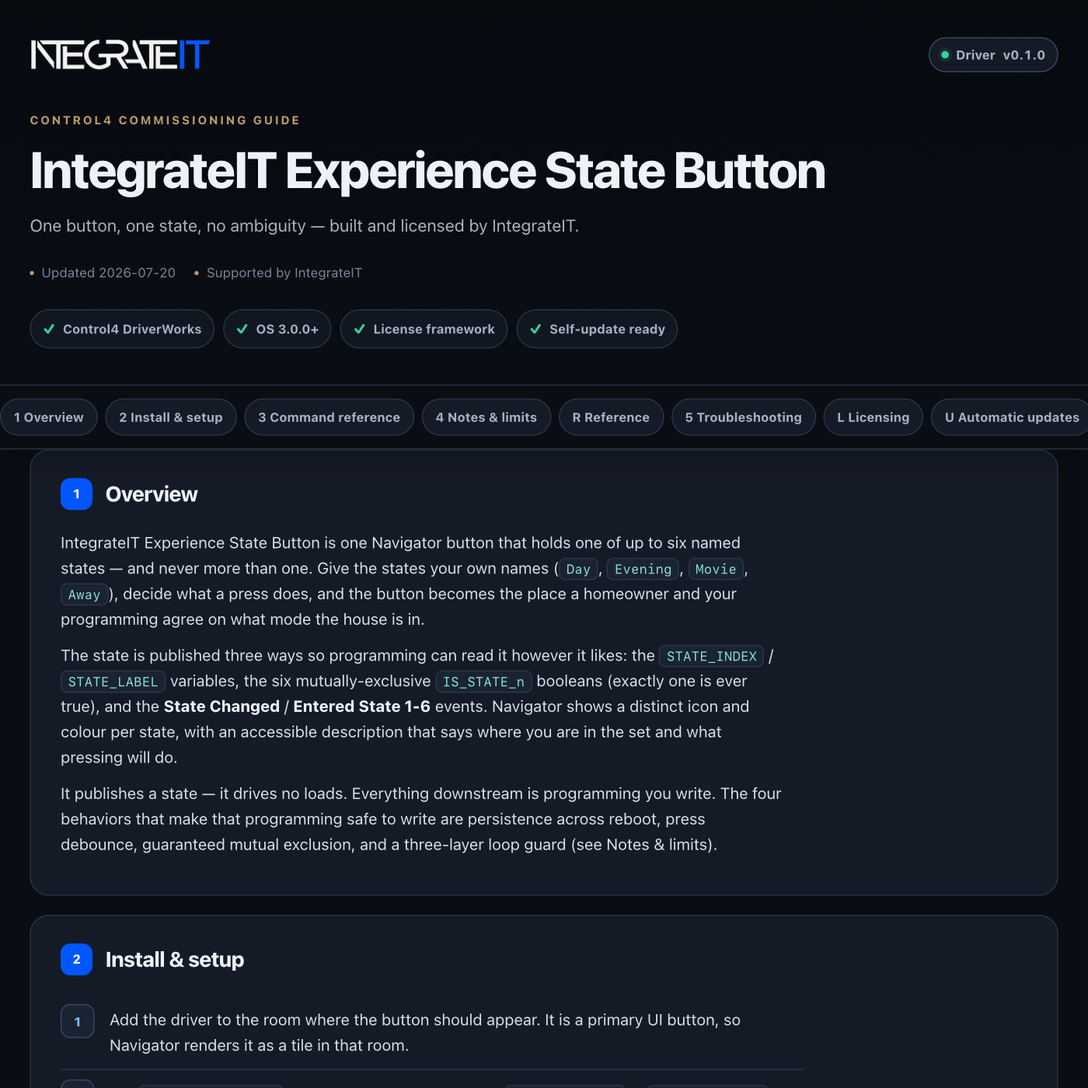
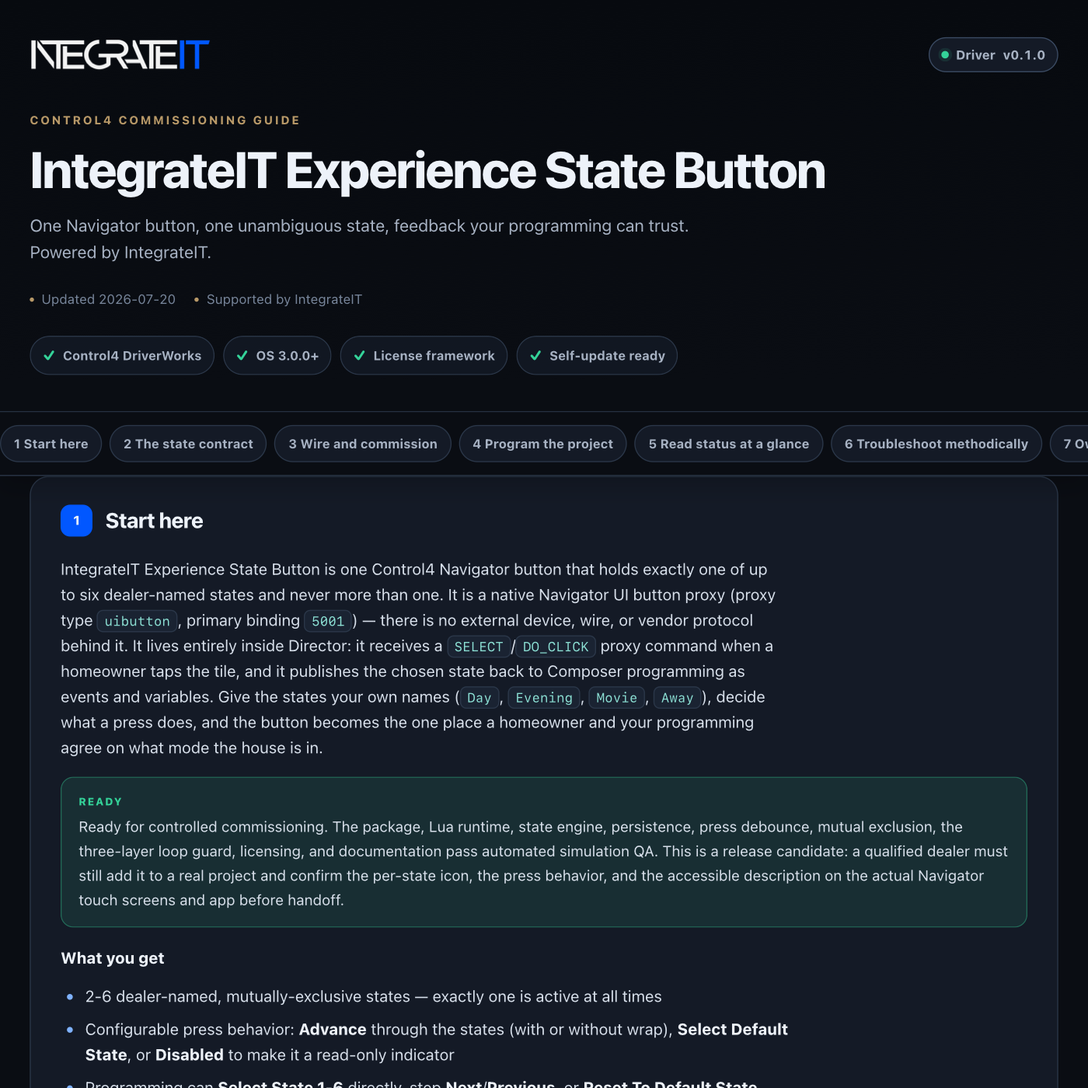
control4: publish driver channel (integrateit_experience_buttons 0.1.1)

Changed region(s): [[0.0, 0.3686, 1.0, 1.0], [0.0307, 0.1843, 0.6143, 0.3379]]

diff --git a/control4/integrateit_experience_buttons/documentation.html b/control4/integrateit_experience_buttons/documentation.html
@@ -179,13 +179,13 @@ td code{white-space:normal}
     <div class="wrap">
       <div class="brandbar">
[1 lines of base64/hex data omitted]
-        <span class="version"><span class="word">Driver</span> v0.1.0</span>
+        <span class="version"><span class="word">Driver</span> v0.1.1</span>
       </div>
       <p class="eyebrow">Control4 commissioning guide</p>
       <h1>IntegrateIT Experience State Button</h1>
-      <p class="sub">One button, one state, no ambiguity — built and licensed by IntegrateIT.</p>
+      <p class="sub">One Navigator button, one unambiguous state, feedback your programming can trust. Powered by IntegrateIT.</p>
       <div class="meta">
-        <span>Updated 2026-07-20</span>
+        <span>Updated 2026-07-26</span>
         <span>Supported by IntegrateIT</span>
       </div>
       <div class="readiness" aria-label="Driver capabilities">
@@ -198,57 +198,118 @@ td code{white-space:normal}
   </header>
 
   <div class="toc-wrap">
-    <nav class="toc wrap" aria-label="Documentation sections"><a href="#overview">1 Overview</a><a href="#install">2 Install &amp; setup</a><a href="#commands">3 Command reference</a><a href="#notes">4 Notes &amp; limits</a><a href="#reference">R Reference</a><a href="#troubleshooting">5 Troubleshooting</a><a href="#licensing">L Licensing</a><a href="#updates">U Automatic updates</a><a href="#changelog">V Version history</a></nav>
+    <nav class="toc wrap" aria-label="Documentation sections"><a href="#overview">1 Start here</a><a href="#state-contract">2 The state contract</a><a href="#setup">3 Wire and commission</a><a href="#programming">4 Program the project</a><a href="#status">5 Read status at a glance</a><a href="#troubleshooting">6 Troubleshoot methodically</a><a href="#trust">7 Ownership, privacy, and licensing</a><a href="#reference">R Reference</a><a href="#licensing">L Licensing</a><a href="#updates">U Automatic updates</a><a href="#changelog">V Version history</a></nav>
   </div>
 
   <main class="wrap">
     <section class="card" id="overview" data-card="overview">
-  <h2><span class="n">1</span> Overview</h2>
-  <p>IntegrateIT Experience State Button is one Navigator button that holds one of up to six named states — and never more than one. Give the states your own names (<code>Day</code>, <code>Evening</code>, <code>Movie</code>, <code>Away</code>), decide what a press does, and the button becomes the place a homeowner and your programming agree on what mode the house is in.</p>
-  <p>The state is published three ways so programming can read it however it likes: the <code>STATE_INDEX</code> / <code>STATE_LABEL</code> variables, the six mutually-exclusive <code>IS_STATE_n</code> booleans (exactly one is ever true), and the <b>State Changed</b> / <b>Entered State 1-6</b> events. Navigator shows a distinct icon and colour per state, with an accessible description that says where you are in the set and what pressing will do.</p>
-  <p>It publishes a state — it drives no loads. Everything downstream is programming you write. The four behaviors that make that programming safe to write are persistence across reboot, press debounce, guaranteed mutual exclusion, and a three-layer loop guard (see Notes &amp; limits).</p>
+  <h2><span class="n">1</span> Start here</h2>
+  <p>IntegrateIT Experience State Button is one Control4 Navigator button that holds exactly one of up to six dealer-named states and never more than one. It is a native Navigator UI button proxy (proxy type <code>uibutton</code>, primary binding <code>5001</code>) — there is no external device, wire, or vendor protocol behind it. It lives entirely inside Director: it receives a <code>SELECT</code>/<code>DO_CLICK</code> proxy command when a homeowner taps the tile, and it publishes the chosen state back to Composer programming as events and variables. Give the states your own names (<code>Day</code>, <code>Evening</code>, <code>Movie</code>, <code>Away</code>), decide what a press does, and the button becomes the one place a homeowner and your programming agree on what mode the house is in.</p>
+  <div class="note good">Ready for controlled commissioning. The package, Lua runtime, state engine, persistence, press debounce, mutual exclusion, the three-layer loop guard, licensing, and documentation pass automated simulation QA. This is a release candidate: a qualified dealer must still add it to a real project and confirm the per-state icon, the press behavior, and the accessible description on the actual Navigator touch screens and app before handoff.</div>
+  <p><b>What you get</b></p>
+  <ul>
+    <li>2-6 dealer-named, mutually-exclusive states — exactly one is active at all times</li>
+    <li>Configurable press behavior: <b>Advance</b> through the states (with or without wrap), <b>Select Default State</b>, or <b>Disabled</b> to make it a read-only indicator</li>
+    <li>Programming can <b>Select State 1-6</b> directly, step <b>Next</b>/<b>Previous</b>, or <b>Reset To Default State</b></li>
+    <li>The state survives a controller reboot, silently; optional always-start-at-default</li>
+    <li>Press debounce collapses the duplicate <code>SELECT</code>/<code>DO_CLICK</code> deliveries one Navigator press can produce</li>
+    <li>A three-layer loop guard that keeps programming reacting to its own state changes from running away</li>
+    <li>Per-state Navigator icon and accessible description; <b>State Changed</b> / <b>Entered State 1-6</b> events; <code>STATE_INDEX</code> / <code>IS_STATE_1-6</code> variables</li>
+    <li>MAC-locked IntegrateIT licensing, Lenient or Strict</li>
+  </ul>
 </section>
 
-<section class="card" id="install" data-card="install">
-  <h2><span class="n">2</span> Install &amp; setup</h2>
+<section class="card" id="state-contract" data-card="state-contract">
+  <h2><span class="n">2</span> The state contract</h2>
+  <p>Unlike a driver that reads a device and can be wrong about it, this button *is* the source of truth. Its state is exactly what was last selected — it never assumes, infers, or fakes a value it does not have. What it will not do is pretend to be more than a state holder:</p>
+  <ul>
+    <li><b>It drives no loads.</b> Publishing a state is the whole job. Every light, scene, shade, or mode that changes because of it is programming you write. The button is the switch; the behavior downstream is yours.</li>
+    <li><b>Mutual exclusion is within this one button.</b> All six <code>IS_STATE_n</code> flags are rewritten as one block on every change, so exactly one is ever true and it always agrees with <code>STATE_INDEX</code> — there is no window in which two states read as active. Lowering <code>Number of States</code> below the held state is a structural correction, not programming traffic, so it always clamps the state back into range — even past a tripped loop guard — and no flag above the configured count is ever left reading true. Making several *buttons* exclusive of each other (radio-group behavior) is programming, not a driver feature, and it is exactly the pattern the loop guard exists to keep safe.</li>
+    <li><b>The loop guard is a rate limiter, not a proof.</b> It stops a runaway after <code>Loop Guard Changes</code> accepted changes inside <code>Loop Guard Window (s)</code>, then stays tripped for a full window measured from the trip before it re-arms; a feedback loop slower than that ceiling still has to be fixed in programming. If <b>Loop Guard Tripped</b> ever fires in the field, treat it as a bug report about your programming, not a setting to raise.</li>
+    <li><b>Restore depends on Director persistence.</b> The last state is written on every accepted change and restored silently at boot — a reboot fires no event, so scene programming does not run every time Director restarts. A driver that is removed and re-added, or a factory-reset controller, starts at the <b>Default State</b>.</li>
+  </ul>
+</section>
+
+<section class="card" id="setup" data-card="setup">
+  <h2><span class="n">3</span> Wire and commission</h2>
   <ol class="steps">
-    <li>Add the driver to the room where the button should appear. It is a primary UI button, so Navigator renders it as a tile in that room.</li>
+    <li>Add <b>IntegrateIT Experience State Button</b> to the room where it should appear. It is a primary UI button, so Navigator renders it as a tile in that room. There are no connections to bind — the button drives nothing.</li>
     <li>Set <code>Number of States</code> (2-6), then name each one in <code>State 1 Label</code> … <code>State 6 Label</code>. A blank label shows as *State N*.</li>
-    <li>Set <code>Default State</code> — the state used on a first-ever start, by <b>Reset To Default State</b>, and on every boot when <code>Restore On Reboot</code> is No.</li>
-    <li>Choose <code>Press Action</code>: - <b>Advance</b> (default) — a press moves to the next state, wrapping per <code>Wrap At Last State</code>. - <b>Select Default State</b> — a press jumps home from wherever it is. Good for an "everything back to normal" tile. - <b>Disabled</b> — presses are refused; the button becomes a read-only indicator driven only by programming.</li>
-    <li>Leave <code>Press Debounce (ms)</code> at 400 unless you have a reason. One Navigator press can be delivered twice; this is what collapses it into one state change.</li>
-    <li>In Programming, react to <b>Entered State 2</b> (etc.) to run your scenes, or compare <code>STATE_INDEX</code> / <code>IS_STATE_2</code> in a condition.</li>
+    <li>Set <code>Default State</code> — the state used on a first-ever start, by <b>Reset To Default State</b>, and on every boot when <code>Restore On Reboot</code> is No. It is clamped into the configured range, so trimming the state list never strands it out of bounds.</li>
+    <li>Choose <code>Press Action</code>: - <b>Advance</b> (default) — a press moves to the next state, wrapping per <code>Wrap At Last State</code>. - <b>Select Default State</b> — a press jumps home from wherever it is; good for an "everything back to normal" tile. - <b>Disabled</b> — presses are refused and the button becomes a read-only indicator driven only by programming.</li>
+    <li>Leave <code>Wrap At Last State</code>, <code>Restore On Reboot</code>, and <code>Press Debounce (ms)</code> at their defaults unless you have a reason. The 400 ms debounce is what collapses one Navigator press into one state change; set it to 0 only when the binding genuinely sends one press per press.</li>
+    <li>If programming will react to this button's own events, tune <code>Loop Guard Changes</code> and <code>Loop Guard Window (s)</code> (defaults 12 changes / 10 s). Setting <code>Loop Guard Changes</code> to 0 disables the guard entirely.</li>
     <li>Optionally enter a <code>License Key</code> (see Licensing) — the driver runs in Lenient mode without one.</li>
+    <li>Prove it: open the room on a Navigator, tap the button, and watch the icon and accessible description advance one state per tap. In Programming, confirm <b>Entered State N</b> fires and <code>STATE_INDEX</code> / <code>IS_STATE_N</code> update.</li>
   </ol>
 </section>
 
-<section class="card" id="commands" data-card="commands">
-  <h2><span class="n">3</span> Command reference</h2>
+<section class="card" id="programming" data-card="programming">
+  <h2><span class="n">4</span> Program the project</h2>
   <table>
     <tr><th>Action</th><th>What it does</th></tr>
-    <tr><td>Select State 1 … Select State 6</td><td>Move directly to that state. Refused (with a Status note) if it is above <code>Number of States</code>.</td></tr>
+    <tr><td>Select State 1 … Select State 6</td><td>Move directly to that state. Refused, with a <code>Status</code> note, if it is above <code>Number of States</code>.</td></tr>
     <tr><td>Next State / Previous State</td><td>Step one state, honouring <code>Wrap At Last State</code>.</td></tr>
     <tr><td>Reset To Default State</td><td>Return to <code>Default State</code>, and release the loop guard if it is tripped.</td></tr>
-    <tr><td>Refresh Navigator State</td><td>Re-send the current icon, description and variables. No state change, no events — safe anywhere.</td></tr>
-    <tr><td>Print Configuration</td><td>Print the state list, press behavior, loop-guard settings, and the accessible text to the Lua output window.</td></tr>
+    <tr><td>Refresh Navigator State</td><td>Re-send the current icon, description, and variables. No state change, no events — safe to call anywhere.</td></tr>
+    <tr><td>Print Configuration</td><td>Print the state list, press behavior, loop-guard settings, and accessible text to the Lua output window.</td></tr>
   </table>
-  <p><b>Events:</b> *State Changed*, *Entered State 1* … *Entered State 6*, *Loop Guard Tripped*. <b>Variables:</b> <code>STATE_INDEX</code>, <code>STATE_COUNT</code>, <code>STATE_LABEL</code>, <code>STATE_TEXT</code>, <code>LAST_CHANGE_SOURCE</code>, <code>IS_STATE_1</code> … <code>IS_STATE_6</code>.</p>
+  <p><b>Events:</b> *State Changed* (fired for a move from any source), *Entered State 1* … *Entered State 6*, *Loop Guard Tripped*.</p>
+  <table>
+    <tr><th>Variable</th><th>Type</th><th>Meaning</th></tr>
+    <tr><td><code>STATE_INDEX</code></td><td>NUMBER</td><td>The current state, 1…N (0 only before the driver has initialized).</td></tr>
+    <tr><td><code>STATE_COUNT</code></td><td>NUMBER</td><td>The configured <code>Number of States</code>.</td></tr>
+    <tr><td><code>STATE_LABEL</code></td><td>STRING</td><td>The current state's label.</td></tr>
+    <tr><td><code>STATE_TEXT</code></td><td>STRING</td><td>The accessible description: position, label, and what a press will do.</td></tr>
+    <tr><td><code>LAST_CHANGE_SOURCE</code></td><td>STRING</td><td>What last moved the state: Navigator, Programming, Restore, Reconfigure, or Default.</td></tr>
+    <tr><td><code>IS_STATE_1</code> … <code>IS_STATE_6</code></td><td>BOOL</td><td>Exactly one is true, and it always matches <code>STATE_INDEX</code>.</td></tr>
+  </table>
+  <p>Three concrete recipes:</p>
+  <ul>
+    <li><b>Run a scene for a mode.</b> *When Entered State 2 (Movie) →* dim the lights, close the shades, power the projector. React to <b>Entered State N</b> to run the scene that belongs to that state.</li>
+    <li><b>Pull the button back in sync.</b> *When a scene ends →* <b>Select State 1 (Day)</b>. Because re-selecting the state the button already holds is a silent refresh, this never loops back on itself.</li>
+    <li><b>Radio group across buttons.</b> *When this button fires Entered State 3 →* <b>Select State 1</b> on the sibling buttons. The silent-refresh layer and the loop guard let the siblings settle in one pass instead of ping-ponging.</li>
+  </ul>
+  <p>Control is gated by the license: under Strict enforcement an unlicensed controller moves nothing — presses and programming alike are refused — while Lenient mode allows commissioning with the <code>License Status</code> nag.</p>
 </section>
 
-<section class="card" id="notes" data-card="notes">
-  <h2><span class="n">4</span> Notes &amp; limits</h2>
-  <ul>
-    <li><b>Mutual exclusion.</b> All six <code>IS_STATE_n</code> flags are rewritten together on every change, so exactly one is true and it always agrees with <code>STATE_INDEX</code>. There is no window in which two states read as active.</li>
-    <li><b>Persistence.</b> The state is written on every accepted change and restored at boot — silently. A controller restart fires no events, so scene programming does not run every time Director restarts. Turn <code>Restore On Reboot</code> to No for buttons that should always come up at the default. If <code>Number of States</code> was lowered while the driver was down, the stored state clamps into range and <code>Last Change</code> reads *Reconfigure*.</li>
-    <li><b>Debounce.</b> A press is accepted, then the button is deaf for <code>Press Debounce (ms)</code>. This is what makes one tap one state change even when Navigator delivers both SELECT and DO_CLICK for it. Set it to 0 only if you are driving the binding from something that genuinely sends one press per press.</li>
-    <li><b>Loop protection, three layers.</b> (1) Selecting the state it already holds is a silent refresh, never an event — this alone breaks the common "on State Changed → set the state" cycle. (2) A change requested from inside this driver's own event dispatch is refused. (3) More than <code>Loop Guard Changes</code> accepted changes inside <code>Loop Guard Window (s)</code> trips the guard, which fires <b>Loop Guard Tripped</b> once and refuses further changes until the window elapses. The tripped window is measured from the trip, not from the first change that opened the counting window. <b>Reset To Default State</b> or retuning either guard property releases it immediately, and lowering <code>Number of States</code> still clamps the current state into range even while the guard is tripped — the guard never leaves the button holding a state that no longer exists.</li>
-    <li><b>The guard is a rate limiter, not a proof.</b> A feedback loop slower than the configured ceiling will not trip it. If <b>Loop Guard Tripped</b> ever fires in the field, treat it as a bug report about your programming, not as a setting to raise.</li>
-    <li><b>Wrap off is a wall.</b> With <code>Wrap At Last State</code> set to No, pressing at the last state does nothing at all — no event, no re-selection. Status says so.</li>
-    <li>Making several buttons exclusive of one another (radio-group behavior across drivers) is programming: react to <b>Entered State</b> on one and select a state on the siblings. That is precisely the pattern the loop guard exists to keep safe, and layer 1 means the siblings settle in one pass.</li>
-  </ul>
+<section class="card" id="status" data-card="status">
+  <h2><span class="n">5</span> Read status at a glance</h2>
+  <p>For automation, read <code>STATE_INDEX</code> or the <code>IS_STATE_n</code> booleans — they are the machine-safe truth. The text properties below are for humans and for screen readers.</p>
+  <table>
+    <tr><th>Property</th><th>Healthy result</th><th>What it tells you</th></tr>
+    <tr><td><code>Current State</code></td><td><code>2 of 3 - Movie</code> (position, count, label)</td><td>The state the button holds right now. Reads <code>Unknown</code> only before init.</td></tr>
+    <tr><td><code>Accessible Description</code></td><td>Position, label, and what a press does</td><td>The screen-reader text Navigator receives with the icon; identical to <code>STATE_TEXT</code>.</td></tr>
+    <tr><td><code>Last Change</code></td><td>e.g. <code>Navigator at 2026-07-20 18:04:11</code></td><td>What last moved the state and when — Navigator, Programming, Restore, Reconfigure, or Default.</td></tr>
+    <tr><td><code>License Status</code></td><td>Activated, or Lenient during commissioning</td><td>Enter a key before selecting Strict enforcement.</td></tr>
+  </table>
+  <p><b>Print Configuration</b> writes the state list, press behavior, debounce, restore setting, loop-guard settings, and the accessible text to the Lua output window, alongside the IntegrateIT identity. It never prints the license key.</p>
+</section>
+
+<section class="card" id="troubleshooting" data-card="troubleshooting">
+  <h2><span class="n">6</span> Troubleshoot methodically</h2>
+  <table>
+    <tr><th>Symptom</th><th>Likely cause</th><th>Fix</th></tr>
+    <tr><td>A tap does nothing at all</td><td><code>Press Action</code> is Disabled, or Strict enforcement without a valid key</td><td>Set <code>Press Action</code> to Advance or Select Default State; check <code>License Status</code>.</td></tr>
+    <tr><td>A single tap skips a state</td><td><code>Press Debounce (ms)</code> is 0 and Navigator delivers the press twice</td><td>Restore the debounce to 400 ms.</td></tr>
+    <tr><td>Pressing at the last state does nothing</td><td><code>Wrap At Last State</code> is No — this is the wall, by design</td><td>Set it to Yes to cycle; <code>Status</code> says so.</td></tr>
+    <tr><td>State keeps changing on its own</td><td>Programming reacts to this button's own event and sets it back</td><td>Check <code>Status</code> for a loop-guard note, then fix the cycle in Programming.</td></tr>
+    <tr><td>Nothing changes after <code>Loop Guard Tripped</code></td><td>The guard is refusing changes for a full <code>Loop Guard Window (s)</code> measured from the trip</td><td>Run <b>Reset To Default State</b> (or retune the guard) to release it now, then fix the programming that stormed it.</td></tr>
+    <tr><td>Comes back at the wrong state after a reboot</td><td><code>Restore On Reboot</code> is No, or <code>Number of States</code> was lowered while offline</td><td>Read <code>Last Change</code> — *Default* and *Reconfigure* each name their cause.</td></tr>
+    <tr><td>A state cannot be selected</td><td>The state is above <code>Number of States</code></td><td>Raise <code>Number of States</code>; <code>Status</code> names the refused state.</td></tr>
+    <tr><td>The icon or description looks stale on a Navigator</td><td>The Navigator restarted and lost the pushed icon</td><td>Run <b>Refresh Navigator State</b>.</td></tr>
+  </table>
+  <div class="note">Turn on <code>Debug Mode → Print</code> to watch presses, refusals, and every state transition in the Lua output window. If the behavior still does not match, capture that output and a <b>Print Configuration</b> dump and contact support@integrateit.tech · (913) 804-7575.</div>
+</section>
+
+<section class="card" id="trust" data-card="trust">
+  <h2><span class="n">7</span> Ownership, privacy, and licensing</h2>
+  <p>This package is an original IntegrateIT implementation built on the documented Control4 UI-button proxy and variable/event contracts. It does not bundle another vendor's runtime, source code, brand assets, trial system, or license. Driver engineering, Control4 integration, documentation, QA, licensing, updates, and support are provided by IntegrateIT.</p>
+  <p>Nothing about the button leaves the controller. The state, the labels, the change history, and the accessible text live only in Director and the driver's own <code>PersistData</code> — the button's runtime has no network path, so no state or press ever leaves the LAN. The shared IntegrateIT license and update services are the only outbound path; they use the controller identity, driver slug, version, configured license key, and update channel as documented in the reference below. The license key is never printed by <b>Print Configuration</b> or written to the log. Automatic update checking is a property you control, and self-update staging requires Control4 OS 3.3.1 or newer.</p>
+  <p>Lenient mode allows commissioning without an activated key and keeps <code>License Status</code> visible. Strict mode blocks all state control — presses and programming alike — until the Ops Portal has minted and validated a key for that controller. Installing this package does not itself mint or activate a controller license.</p>
 <section class="card" id="reference" data-card="reference">
   <h2><span class="n">R</span> Reference</h2>
-  <p>Generated from the driver manifest at build time — always matches this build (v0.1.0).</p>
+  <p>Generated from the driver manifest at build time — always matches this build (v0.1.1).</p>
   <h3>Properties</h3>
   <table>
     <tr><th>Property</th><th>Type</th><th>Default</th><th>Description</th></tr>
@@ -319,21 +380,6 @@ td code{white-space:normal}
   </table>
 </section>
 </section>
-
-<section class="card" id="troubleshooting" data-card="troubleshooting">
-  <h2><span class="n">5</span> Troubleshooting</h2>
-  <table>
-    <tr><th>Symptom</th><th>Likely cause</th><th>Fix</th></tr>
-    <tr><td>A single tap skips a state</td><td><code>Press Debounce (ms)</code> set to 0 and Navigator delivering the press twice</td><td>Restore the debounce to 400 ms.</td></tr>
-    <tr><td>Presses do nothing</td><td><code>Press Action</code> is Disabled, or Strict enforcement + unlicensed</td><td>Set <code>Press Action</code> to Advance; check <code>License Status</code>.</td></tr>
-    <tr><td>Pressing at the last state does nothing</td><td><code>Wrap At Last State</code> is No — this is the wall, by design</td><td>Set it to Yes to cycle.</td></tr>
-    <tr><td>State keeps changing on its own</td><td>Programming reacting to this button's own event and setting it back</td><td>Check <code>Status</code> for a loop-guard note, then fix the cycle in Programming.</td></tr>
-    <tr><td>Nothing after <code>Loop Guard Tripped</code></td><td>The guard is refusing changes until the window elapses</td><td>Run <b>Reset To Default State</b>, then fix the programming that stormed it.</td></tr>
-    <tr><td>Comes back at the wrong state after a reboot</td><td><code>Restore On Reboot</code> is No, or <code>Number of States</code> was lowered while offline</td><td>Check <code>Last Change</code> — *Default* and *Reconfigure* each name their cause.</td></tr>
-    <tr><td>A state cannot be selected</td><td>The state is above <code>Number of States</code></td><td>Raise <code>Number of States</code>; <code>Status</code> names the refused state.</td></tr>
-  </table>
-  <div class="note">Turn on <code>Debug Mode → Print</code> to watch presses, refusals, and every state transition in the Lua output window.</div>
-</section>
 <section class="card" id="licensing" data-card="licensing">
   <h2><span class="n">L</span> Licensing</h2>
   <p>This driver is licensed <b>per controller</b>. Each license key locks to one controller's
@@ -381,7 +427,9 @@ td code{white-space:normal}
     <section class="card" id="changelog" data-card="changelog">
   <h2><span class="n">V</span> Version history</h2>
   <div class="chg">
-    <div class="rel"><b>v0.1.0</b> <span class="pill green">current</span><span class="d">2026-07-20</span>
+    <div class="rel"><b>v0.1.1</b> <span class="pill green">current</span><span class="d">2026-07-26</span>
+      <ul><li>Documentation rebuilt to the IntegrateIT commissioning-guide standard: uniform sections, honest contracts, verified claim-by-claim against the code.</li><li>A tripped loop guard could refuse the clamp that runs when a dealer lowers `Number of States`, stranding the button on a state that no longer exists — `IS_STATE_6` stayed true with the count set to 2, and nothing published afterwards to correct it. Structural clamps are now forced through the guard and the re-entrancy refusal.</li><li>The loop guard re-armed at the end of the *counting* window rather than a window after it tripped, so a storm starting late in the window bought only the remainder as protection (trip at 9.9s of a 10s window, re-arm 100ms later). Tripping now restarts the window, matching what `Loop Guard Window (s)` documents.</li><li>A press on a `Disabled` button armed the debounce timer before Press Action was read, leaving a live timer on a read-only indicator and swallowing the first real press if the dealer re-enabled the button inside that window.</li></ul></div>
+    <div class="rel"><b>v0.1.0</b><span class="d">2026-07-20</span>
       <ul><li>First cut: one Navigator UI button holding 2-6 dealer-named, mutually-exclusive states.</li><li>Press behavior is configurable (Advance with or without wrap, Select Default State, Disabled); programming can select any state, step Next/Previous, or reset to the default.</li><li>Persistence: the state is written on every accepted change and restored silently at boot; a state stranded above a lowered `Number of States` clamps into range.</li><li>Debounce: the duplicate SELECT/DO_CLICK delivery of one Navigator press collapses into one state change.</li><li>Mutual exclusion: `IS_STATE_1`..`IS_STATE_6` are rewritten as a block on every publish, so exactly one is ever true and it always matches `STATE_INDEX`.</li><li>Loop protection in three layers: re-selecting the held state is silent, a re-entrant change fired from inside the driver's own event dispatch is refused, and a change storm trips a rate guard that fires `Loop Guard Tripped` once and re-arms after its window.</li><li>Accessibility: the Navigator icon description and `STATE_TEXT` always carry position, label, and what a press will do.</li><li>MAC-locked IntegrateIT licensing on every control path; Lenient by default, Strict blocks presses and programming alike.</li></ul></div>
   </div>
 </section>

diff --git a/control4/integrateit_experience_buttons/CHANGELOG.md b/control4/integrateit_experience_buttons/CHANGELOG.md
@@ -1,5 +1,8 @@
 # Changelog — IntegrateIT Experience State Button
 
+## [0.1.1] - 2026-07-26
+- Documentation rebuilt to the IntegrateIT commissioning-guide standard: uniform sections, honest contracts, verified claim-by-claim against the code.
+
 ## [Unreleased]
 ### Fixed (adversarial review, 2026-07-20)
 - A tripped loop guard could refuse the clamp that runs when a dealer lowers `Number of States`, stranding the button on a state that no longer exists — `IS_STATE_6` stayed true with the count set to 2, and nothing published afterwards to correct it. Structural clamps are now forced through the guard and the re-entrancy refusal.
